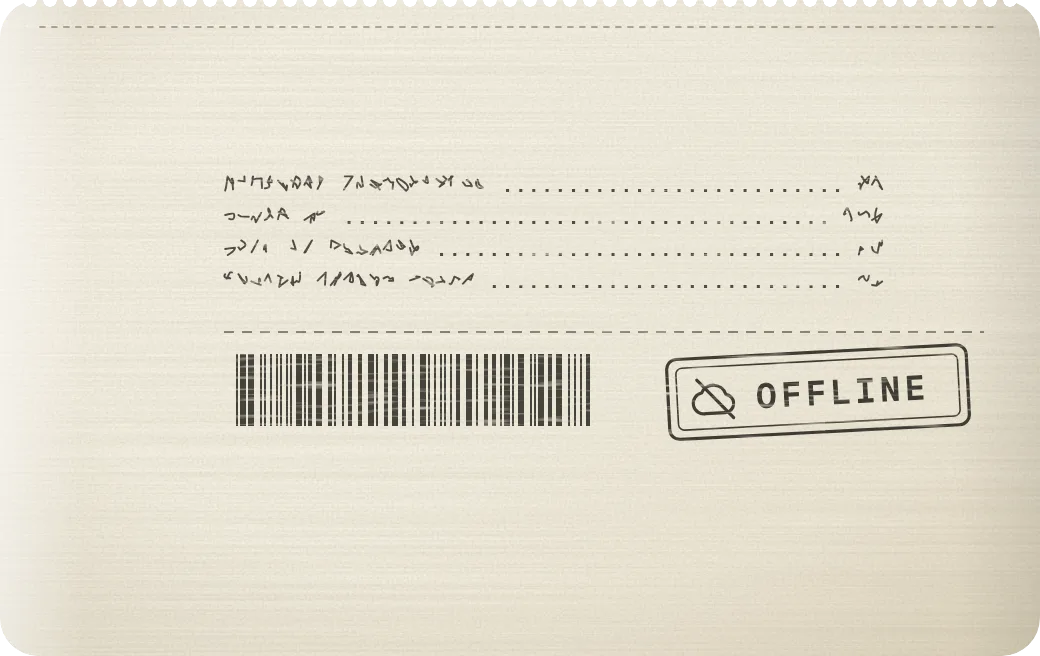
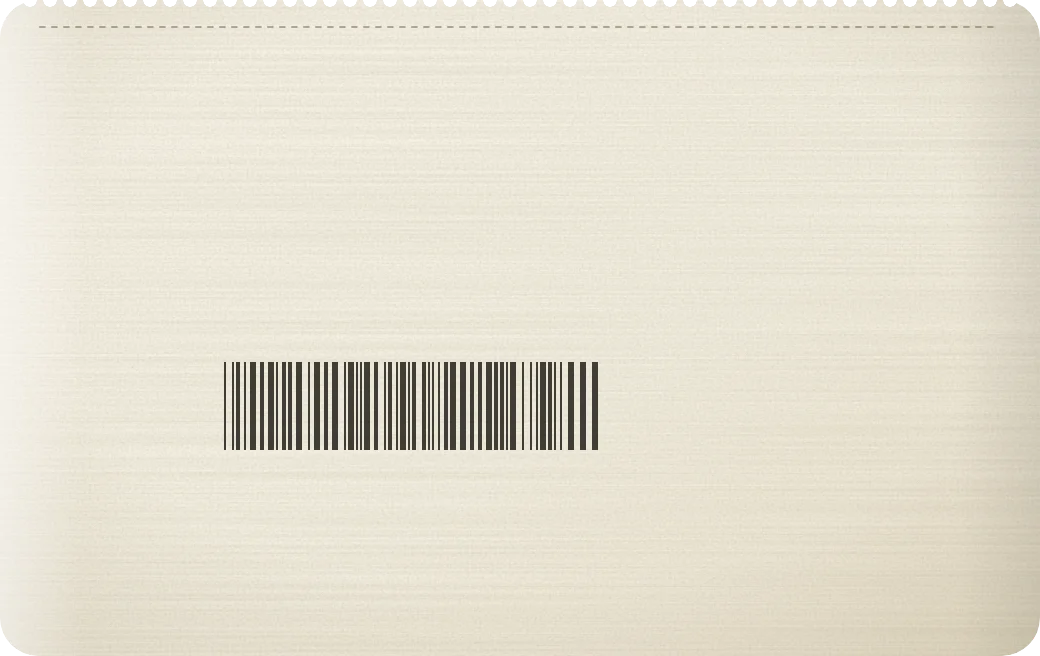
feat(home): nuevas tarjetas de Pyventa (ticket que se imprime) y Maiden OS (agente que entrega el trabajo), animadas al abrirlas (NOE-558)

diff --git a/src/home/sections/card-motion/pyventa.ts b/src/home/sections/card-motion/pyventa.ts
@@ -1,5 +1,49 @@
-import type { CardMotion } from './index';
+// Pyventa Web: the moving parts of the card (laser, item lines and prices, separator, total).
+// Generated by scripts/cards/gen/living-split.mjs from the same source as public/home/cards/pyventa.webp (the paper and barcode).
+// At rest, this overlay on that base is the approved card. Build-up is about 1.4 s.
+import { EASE, sweep, type CardMotion } from './index';
 
-// Placeholder until this card's overlay is built.
-const motion: CardMotion = { id: 'pyventa', svg: '', play: () => [] };
+const svg = "<defs><linearGradient id=\"pv-lz\" gradientUnits=\"objectBoundingBox\" x1=\"0\" y1=\"0\" x2=\"1\" y2=\"0\"><stop offset=\"0\" stop-color=\"#D2402F\" stop-opacity=\"0\"/><stop offset=\".08\" stop-color=\"#D2402F\"/><stop offset=\".92\" stop-color=\"#D2402F\"/><stop offset=\"1\" stop-color=\"#D2402F\" stop-opacity=\"0\"/></linearGradient></defs><g fill=\"#23201A\"><g data-row><path d=\"M252 82.5 H445.5\" stroke=\"#23201A\" stroke-width=\"1\" stroke-dasharray=\"1.2 3.2\" stroke-linecap=\"round\" opacity=\".4\"></path><rect x=\"112\" y=\"79.4\" width=\"132\" height=\"5.2\" rx=\"2.6\" opacity=\".78\"></rect><path d=\"M459.16 85.60L458.00 85.60L458.00 80.03L456.00 80.03L456.00 79.05L456.99 79.05Q457.42 79.05 457.68 78.93Q457.95 78.80 458.07 78.53Q458.19 78.25 458.19 77.79L458.19 77.79L459.16 77.79L459.16 85.60ZM460.98 85.60L455.62 85.60L455.62 84.51L460.98 84.51L460.98 85.60ZM467.67 85.60L462.13 85.60Q462.13 84.73 462.38 84.05Q462.63 83.37 463.28 82.77Q463.92 82.17 465.06 81.56L465.06 81.56Q465.56 81.31 465.87 81.08Q466.18 80.85 466.32 80.58Q466.46 80.32 466.46 79.95L466.46 79.95Q466.46 79.56 466.31 79.29Q466.15 79.01 465.85 78.85Q465.54 78.69 465.08 78.69L465.08 78.69Q464.33 78.69 463.90 79.09Q463.48 79.48 463.37 80.22L463.37 80.22L462.17 80.14Q462.29 78.99 463.04 78.30Q463.79 77.61 465.08 77.61L465.08 77.61Q465.91 77.61 466.49 77.90Q467.07 78.19 467.36 78.70Q467.66 79.22 467.66 79.90L467.66 79.90Q467.66 80.51 467.46 80.95Q467.27 81.39 466.80 81.76Q466.34 82.13 465.54 82.56L465.54 82.56Q464.87 82.93 464.42 83.27Q463.98 83.62 463.75 83.93Q463.53 84.25 463.50 84.51L463.50 84.51L467.67 84.51L467.67 85.60ZM472.25 85.60L470.75 85.60L470.75 84.15L472.25 84.15L472.25 85.60ZM478.08 85.78L478.08 85.78Q477.30 85.78 476.72 85.50Q476.14 85.21 475.81 84.71Q475.47 84.21 475.42 83.56L475.42 83.56L476.62 83.49Q476.69 84.09 477.08 84.40Q477.46 84.70 478.08 84.70L478.08 84.70Q478.77 84.70 479.18 84.27Q479.59 83.85 479.59 83.07L479.59 83.07Q479.59 82.56 479.40 82.19Q479.22 81.82 478.89 81.62Q478.56 81.43 478.10 81.43L478.10 81.43Q477.67 81.43 477.29 81.65Q476.91 81.86 476.76 82.23L476.76 82.23L475.54 82.21L476.04 77.79L480.34 77.79L480.34 78.88L477.04 78.88L476.73 81.57L476.49 81.41Q476.67 81.08 476.95 80.86Q477.23 80.64 477.58 80.52Q477.92 80.41 478.28 80.41L478.28 80.41Q479.04 80.41 479.60 80.75Q480.17 81.09 480.48 81.69Q480.78 82.30 480.78 83.08L480.78 83.08Q480.78 83.86 480.44 84.48Q480.10 85.09 479.49 85.43Q478.88 85.78 478.08 85.78ZM483.64 84.49L482.76 84.43L485.76 78.90L486.64 78.96L483.64 84.49ZM484.70 85.78L484.70 85.78Q483.84 85.78 483.22 85.28Q482.59 84.79 482.26 83.87Q481.93 82.96 481.93 81.71L481.93 81.71Q481.93 80.44 482.26 79.53Q482.59 78.61 483.22 78.11Q483.84 77.61 484.70 77.61L484.70 77.61Q485.57 77.61 486.19 78.11Q486.81 78.61 487.14 79.53Q487.47 80.44 487.47 81.71L487.47 81.71Q487.47 82.96 487.14 83.87Q486.81 84.79 486.19 85.28Q485.57 85.78 484.70 85.78ZM484.70 84.70L484.70 84.70Q485.20 84.70 485.54 84.34Q485.89 83.98 486.08 83.31Q486.27 82.64 486.27 81.71L486.27 81.71Q486.27 80.75 486.08 80.08Q485.89 79.41 485.54 79.05Q485.20 78.69 484.70 78.69L484.70 78.69Q484.22 78.69 483.86 79.05Q483.51 79.41 483.32 80.08Q483.13 80.75 483.13 81.71L483.13 81.71Q483.13 82.64 483.32 83.31Q483.51 83.98 483.86 84.34Q484.22 84.70 484.70 84.70Z\" opacity=\".82\"/></g><g data-row><path d=\"M216 101.5 H452.4\" stroke=\"#23201A\" stroke-width=\"1\" stroke-dasharray=\"1.2 3.2\" stroke-linecap=\"round\" opacity=\".4\"></path><rect x=\"112\" y=\"98.4\" width=\"96\" height=\"5.2\" rx=\"2.6\" opacity=\".78\"></rect><path d=\"M464.83 104.78L464.83 104.78Q463.55 104.78 462.87 104.16Q462.18 103.54 462.13 102.54L462.13 102.54L463.31 102.47Q463.37 103.14 463.79 103.42Q464.22 103.70 464.85 103.70L464.85 103.70Q465.27 103.70 465.65 103.57Q466.02 103.43 466.25 103.15Q466.47 102.86 466.47 102.38L466.47 102.38Q466.47 101.91 466.27 101.60Q466.07 101.29 465.70 101.14Q465.33 100.99 464.86 100.99L464.86 100.99L464.25 100.99L464.25 99.96L464.86 99.96Q465.23 99.96 465.54 99.85Q465.85 99.74 466.03 99.48Q466.21 99.23 466.21 98.84L466.21 98.84Q466.21 98.26 465.86 97.98Q465.52 97.69 464.88 97.69L464.88 97.69Q464.22 97.69 463.88 97.97Q463.55 98.24 463.47 98.73L463.47 98.73L462.28 98.65Q462.40 97.74 463.07 97.17Q463.73 96.61 464.89 96.61L464.89 96.61Q465.66 96.61 466.23 96.87Q466.79 97.13 467.10 97.60Q467.41 98.08 467.41 98.74L467.41 98.74Q467.41 99.46 466.95 99.91Q466.50 100.35 465.63 100.52L465.63 100.52L465.63 100.31Q466.57 100.42 467.12 100.99Q467.67 101.55 467.67 102.41L467.67 102.41Q467.67 103.16 467.31 103.69Q466.96 104.21 466.31 104.50Q465.67 104.78 464.83 104.78ZM472.25 104.60L470.75 104.60L470.75 103.15L472.25 103.15L472.25 104.60ZM477.04 103.49L476.16 103.43L479.16 97.90L480.04 97.96L477.04 103.49ZM478.10 104.78L478.10 104.78Q477.24 104.78 476.62 104.28Q475.99 103.79 475.66 102.87Q475.33 101.96 475.33 100.71L475.33 100.71Q475.33 99.44 475.66 98.53Q475.99 97.61 476.62 97.11Q477.24 96.61 478.10 96.61L478.10 96.61Q478.97 96.61 479.59 97.11Q480.21 97.61 480.54 98.53Q480.87 99.44 480.87 100.71L480.87 100.71Q480.87 101.96 480.54 102.87Q480.21 103.79 479.59 104.28Q478.97 104.78 478.10 104.78ZM478.10 103.70L478.10 103.70Q478.60 103.70 478.94 103.34Q479.29 102.98 479.48 102.31Q479.67 101.64 479.67 100.71L479.67 100.71Q479.67 99.75 479.48 99.08Q479.29 98.41 478.94 98.05Q478.60 97.69 478.10 97.69L478.10 97.69Q477.62 97.69 477.26 98.05Q476.91 98.41 476.72 99.08Q476.53 99.75 476.53 100.71L476.53 100.71Q476.53 101.64 476.72 102.31Q476.91 102.98 477.26 103.34Q477.62 103.70 478.10 103.70ZM483.64 103.49L482.76 103.43L485.76 97.90L486.64 97.96L483.64 103.49ZM484.70 104.78L484.70 104.78Q483.84 104.78 483.22 104.28Q482.59 103.79 482.26 102.87Q481.93 101.96 481.93 100.71L481.93 100.71Q481.93 99.44 482.26 98.53Q482.59 97.61 483.22 97.11Q483.84 96.61 484.70 96.61L484.70 96.61Q485.57 96.61 486.19 97.11Q486.81 97.61 487.14 98.53Q487.47 99.44 487.47 100.71L487.47 100.71Q487.47 101.96 487.14 102.87Q486.81 103.79 486.19 104.28Q485.57 104.78 484.70 104.78ZM484.70 103.70L484.70 103.70Q485.20 103.70 485.54 103.34Q485.89 102.98 486.08 102.31Q486.27 101.64 486.27 100.71L486.27 100.71Q486.27 99.75 486.08 99.08Q485.89 98.41 485.54 98.05Q485.20 97.69 484.70 97.69L484.70 97.69Q484.22 97.69 483.86 98.05Q483.51 98.41 483.32 99.08Q483.13 99.75 483.13 100.71L483.13 100.71Q483.13 101.64 483.32 102.31Q483.51 102.98 483.86 103.34Q484.22 103.70 484.70 103.70Z\" opacity=\".82\"/></g><g data-row><path d=\"M270 120.5 H445.5\" stroke=\"#23201A\" stroke-width=\"1\" stroke-dasharray=\"1.2 3.2\" stroke-linecap=\"round\" opacity=\".4\"></path><rect x=\"112\" y=\"117.4\" width=\"150\" height=\"5.2\" rx=\"2.6\" opacity=\".78\"></rect><path d=\"M460.27 123.60L459.11 123.60L459.11 121.95L455.40 121.95L455.40 120.95L458.99 115.79L460.27 115.79L460.27 120.88L461.20 120.88L461.20 121.95L460.27 121.95L460.27 123.60ZM459.11 117.33L456.53 120.88L459.11 120.88L459.11 117.33ZM464.88 123.78L464.88 123.78Q464.10 123.78 463.52 123.50Q462.94 123.21 462.61 122.71Q462.27 122.21 462.22 121.56L462.22 121.56L463.42 121.49Q463.49 122.09 463.88 122.40Q464.26 122.70 464.88 122.70L464.88 122.70Q465.57 122.70 465.98 122.27Q466.39 121.85 466.39 121.07L466.39 121.07Q466.39 120.56 466.20 120.19Q466.02 119.82 465.69 119.62Q465.36 119.43 464.90 119.43L464.90 119.43Q464.47 119.43 464.09 119.65Q463.71 119.86 463.56 120.23L463.56 120.23L462.34 120.21L462.84 115.79L467.14 115.79L467.14 116.88L463.84 116.88L463.53 119.57L463.29 119.41Q463.47 119.08 463.75 118.86Q464.03 118.64 464.38 118.52Q464.72 118.41 465.08 118.41L465.08 118.41Q465.84 118.41 466.40 118.75Q466.97 119.09 467.28 119.69Q467.58 120.30 467.58 121.08L467.58 121.08Q467.58 121.86 467.24 122.48Q466.90 123.09 466.29 123.43Q465.68 123.78 464.88 123.78ZM472.25 123.60L470.75 123.60L470.75 122.15L472.25 122.15L472.25 123.60ZM478.08 115.61L478.08 115.61Q478.98 115.61 479.61 116.02Q480.25 116.43 480.57 117.21Q480.89 117.99 480.89 119.11L480.89 119.11Q480.89 120.08 480.73 120.93Q480.56 121.77 480.20 122.41Q479.84 123.05 479.24 123.41Q478.65 123.78 477.78 123.78L477.78 123.78Q477.06 123.78 476.57 123.54Q476.08 123.30 475.77 122.87Q475.47 122.44 475.32 121.89L475.32 121.89L476.51 121.80Q476.63 122.20 476.92 122.45Q477.21 122.70 477.78 122.70L477.78 122.70Q478.38 122.70 478.80 122.36Q479.23 122.02 479.47 121.32Q479.71 120.63 479.73 119.55L479.73 119.55L480.01 119.60Q479.90 119.98 479.61 120.31Q479.31 120.64 478.87 120.84Q478.43 121.05 477.86 121.05L477.86 121.05Q477.09 121.05 476.52 120.72Q475.94 120.40 475.63 119.80Q475.31 119.20 475.31 118.41L475.31 118.41Q475.31 117.54 475.66 116.92Q476.01 116.30 476.63 115.95Q477.25 115.61 478.08 115.61ZM478.08 116.70L478.08 116.70Q477.35 116.70 476.93 117.14Q476.51 117.58 476.51 118.39L476.51 118.39Q476.51 119.12 476.91 119.56Q477.31 120.00 477.99 120.00L477.99 120.00Q478.49 120.00 478.86 119.80Q479.24 119.61 479.46 119.24Q479.67 118.88 479.67 118.39L479.67 118.39Q479.67 117.90 479.48 117.52Q479.29 117.13 478.93 116.92Q478.57 116.70 478.08 116.70ZM483.64 122.49L482.76 122.43L485.76 116.90L486.64 116.96L483.64 122.49ZM484.70 123.78L484.70 123.78Q483.84 123.78 483.22 123.28Q482.59 122.79 482.26 121.87Q481.93 120.96 481.93 119.71L481.93 119.71Q481.93 118.44 482.26 117.53Q482.59 116.61 483.22 116.11Q483.84 115.61 484.70 115.61L484.70 115.61Q485.57 115.61 486.19 116.11Q486.81 116.61 487.14 117.53Q487.47 118.44 487.47 119.71L487.47 119.71Q487.47 120.96 487.14 121.87Q486.81 122.79 486.19 123.28Q485.57 123.78 484.70 123.78ZM484.70 122.70L484.70 122.70Q485.20 122.70 485.54 122.34Q485.89 121.98 486.08 121.31Q486.27 120.64 486.27 119.71L486.27 119.71Q486.27 118.75 486.08 118.08Q485.89 117.41 485.54 117.05Q485.20 116.69 484.70 116.69L484.70 116.69Q484.22 116.69 483.86 117.05Q483.51 117.41 483.32 118.08Q483.13 118.75 483.13 119.71L483.13 119.71Q483.13 120.64 483.32 121.31Q483.51 121.98 483.86 122.34Q484.22 122.70 484.70 122.70Z\" opacity=\".82\"/></g><g data-row><path d=\"M230 139.5 H452.4\" stroke=\"#23201A\" stroke-width=\"1\" stroke-dasharray=\"1.2 3.2\" stroke-linecap=\"round\" opacity=\".4\"></path><rect x=\"112\" y=\"136.4\" width=\"110\" height=\"5.2\" rx=\"2.6\" opacity=\".78\"></rect><path d=\"M464.90 142.78L464.90 142.78Q464.10 142.78 463.46 142.51Q462.83 142.25 462.47 141.73Q462.11 141.21 462.11 140.45L462.11 140.45Q462.11 139.61 462.62 139.05Q463.13 138.49 463.99 138.30L463.99 138.30L464.01 138.52Q463.32 138.34 462.89 137.91Q462.46 137.48 462.46 136.76L462.46 136.76Q462.46 136.14 462.77 135.66Q463.09 135.17 463.64 134.89Q464.19 134.61 464.90 134.61L464.90 134.61Q465.62 134.61 466.17 134.89Q466.73 135.17 467.03 135.66Q467.34 136.14 467.34 136.76L467.34 136.76Q467.34 137.48 466.92 137.91Q466.50 138.34 465.79 138.52L465.79 138.52L465.81 138.30Q466.67 138.50 467.18 139.05Q467.69 139.61 467.69 140.45L467.69 140.45Q467.69 141.21 467.33 141.73Q466.97 142.25 466.34 142.51Q465.71 142.78 464.90 142.78ZM464.90 141.70L464.90 141.70Q465.59 141.70 466.04 141.37Q466.50 141.05 466.50 140.37L466.50 140.37Q466.50 139.73 466.09 139.35Q465.69 138.97 464.90 138.97L464.90 138.97Q464.12 138.97 463.71 139.35Q463.31 139.73 463.31 140.37L463.31 140.37Q463.31 141.05 463.76 141.37Q464.21 141.70 464.90 141.70ZM464.90 137.94L464.90 137.94Q465.46 137.94 465.80 137.65Q466.14 137.36 466.14 136.79L466.14 136.79Q466.14 136.29 465.81 135.99Q465.47 135.69 464.90 135.69L464.90 135.69Q464.33 135.69 463.99 135.99Q463.66 136.29 463.66 136.79L463.66 136.79Q463.66 137.36 464.00 137.65Q464.34 137.94 464.90 137.94ZM472.25 142.60L470.75 142.60L470.75 141.15L472.25 141.15L472.25 142.60ZM480.87 142.60L475.33 142.60Q475.33 141.73 475.58 141.05Q475.83 140.37 476.48 139.77Q477.12 139.17 478.27 138.56L478.27 138.56Q478.76 138.31 479.07 138.08Q479.38 137.85 479.52 137.58Q479.66 137.32 479.66 136.95L479.66 136.95Q479.66 136.56 479.51 136.29Q479.35 136.01 479.05 135.85Q478.74 135.69 478.28 135.69L478.28 135.69Q477.53 135.69 477.10 136.09Q476.68 136.48 476.57 137.22L476.57 137.22L475.37 137.14Q475.49 135.99 476.24 135.30Q476.99 134.61 478.28 134.61L478.28 134.61Q479.11 134.61 479.69 134.90Q480.27 135.19 480.56 135.70Q480.86 136.22 480.86 136.90L480.86 136.90Q480.86 137.51 480.66 137.95Q480.47 138.39 480.00 138.76Q479.54 139.13 478.74 139.56L478.74 139.56Q478.07 139.93 477.62 140.27Q477.18 140.62 476.95 140.93Q476.73 141.25 476.70 141.51L476.70 141.51L480.87 141.51L480.87 142.60ZM484.68 142.78L484.68 142.78Q483.90 142.78 483.32 142.50Q482.74 142.22 482.41 141.71Q482.07 141.21 482.02 140.56L482.02 140.56L483.22 140.49Q483.29 141.09 483.68 141.40Q484.06 141.70 484.68 141.70L484.68 141.70Q485.37 141.70 485.78 141.27Q486.19 140.85 486.19 140.07L486.19 140.07Q486.19 139.56 486.00 139.19Q485.82 138.82 485.49 138.62Q485.16 138.43 484.70 138.43L484.70 138.43Q484.27 138.43 483.89 138.65Q483.51 138.86 483.36 139.23L483.36 139.23L482.14 139.21L482.64 134.79L486.94 134.79L486.94 135.88L483.64 135.88L483.33 138.57L483.09 138.41Q483.27 138.08 483.55 137.86Q483.83 137.64 484.18 137.52Q484.52 137.41 484.88 137.41L484.88 137.41Q485.64 137.41 486.20 137.75Q486.77 138.09 487.08 138.69Q487.38 139.30 487.38 140.08L487.38 140.08Q487.38 140.86 487.04 141.48Q486.70 142.09 486.09 142.44Q485.48 142.78 484.68 142.78Z\" opacity=\".82\"/></g><g data-sep><path d=\"M112 153 H488\" stroke=\"#23201A\" stroke-width=\"1\" stroke-dasharray=\"5 4\" opacity=\".5\" fill=\"none\"></path></g><g data-tot><rect data-tb x=\"112\" y=\"161.5\" width=\"74\" height=\"8.5\" rx=\"4.25\" opacity=\".92\"></rect><path data-tt d=\"M450.23 170.62L450.23 170.62Q449.02 170.62 448.20 170.10Q447.37 169.57 446.95 168.56Q446.53 167.54 446.53 166.10L446.53 166.10Q446.53 164.87 446.76 163.81Q446.98 162.74 447.46 161.94Q447.95 161.13 448.72 160.68Q449.49 160.24 450.59 160.24L450.59 160.24Q451.57 160.24 452.22 160.56Q452.87 160.88 453.26 161.44Q453.64 162 453.83 162.73L453.83 162.73L451.81 162.87Q451.71 162.49 451.44 162.25Q451.17 162 450.59 162L450.59 162Q449.98 162 449.52 162.36Q449.07 162.71 448.81 163.50Q448.55 164.28 448.53 165.56L448.53 165.56L447.92 165.50Q448.07 165.05 448.42 164.63Q448.76 164.21 449.32 163.95Q449.88 163.69 450.63 163.69L450.63 163.69Q451.63 163.69 452.35 164.11Q453.07 164.52 453.47 165.27Q453.87 166.02 453.87 167.03L453.87 167.03Q453.87 168.13 453.41 168.94Q452.96 169.74 452.15 170.18Q451.33 170.62 450.23 170.62ZM450.19 168.83L450.19 168.83Q450.97 168.83 451.40 168.38Q451.82 167.94 451.82 167.10L451.82 167.10Q451.82 166.31 451.43 165.85Q451.04 165.39 450.27 165.39L450.27 165.39Q449.75 165.39 449.37 165.61Q448.98 165.82 448.78 166.21Q448.58 166.59 448.58 167.11L448.58 167.11Q448.58 167.59 448.76 167.98Q448.95 168.37 449.32 168.60Q449.68 168.83 450.19 168.83ZM458.57 160.24L458.57 160.24Q459.79 160.24 460.61 160.76Q461.43 161.29 461.85 162.29Q462.27 163.30 462.27 164.76L462.27 164.76Q462.27 165.99 462.04 167.05Q461.82 168.12 461.34 168.92Q460.85 169.73 460.08 170.18Q459.31 170.62 458.21 170.62L458.21 170.62Q457.23 170.62 456.58 170.30Q455.93 169.98 455.54 169.42Q455.16 168.86 454.97 168.13L454.97 168.13L456.99 167.99Q457.10 168.36 457.38 168.61Q457.65 168.86 458.21 168.86L458.21 168.86Q458.82 168.86 459.29 168.50Q459.75 168.15 460 167.36Q460.25 166.58 460.27 165.30L460.27 165.30L460.88 165.36Q460.74 165.81 460.39 166.23Q460.04 166.65 459.48 166.91Q458.92 167.17 458.17 167.17L458.17 167.17Q457.19 167.17 456.46 166.75Q455.73 166.34 455.33 165.58Q454.93 164.83 454.93 163.83L454.93 163.83Q454.93 162.73 455.39 161.92Q455.84 161.12 456.66 160.68Q457.48 160.24 458.57 160.24ZM458.61 162.03L458.61 162.03Q457.83 162.03 457.40 162.48Q456.98 162.92 456.98 163.76L456.98 163.76Q456.98 164.53 457.38 165.00Q457.77 165.47 458.53 165.47L458.53 165.47Q459.05 165.47 459.43 165.25Q459.82 165.04 460.02 164.65Q460.22 164.27 460.22 163.75L460.22 163.75Q460.22 163.27 460.03 162.88Q459.85 162.49 459.49 162.26Q459.13 162.03 458.61 162.03ZM468.11 170.40L465.89 170.40L465.89 168.29L468.11 168.29L468.11 170.40ZM475.43 170.62L475.43 170.62Q474.22 170.62 473.40 170.10Q472.57 169.57 472.15 168.56Q471.73 167.54 471.73 166.10L471.73 166.10Q471.73 164.87 471.96 163.81Q472.18 162.74 472.66 161.94Q473.15 161.13 473.92 160.68Q474.69 160.24 475.79 160.24L475.79 160.24Q476.77 160.24 477.42 160.56Q478.07 160.88 478.46 161.44Q478.84 162 479.03 162.73L479.03 162.73L477.01 162.87Q476.91 162.49 476.64 162.25Q476.37 162 475.79 162L475.79 162Q475.18 162 474.72 162.36Q474.27 162.71 474.01 163.50Q473.75 164.28 473.73 165.56L473.73 165.56L473.12 165.50Q473.27 165.05 473.61 164.63Q473.96 164.21 474.52 163.95Q475.08 163.69 475.83 163.69L475.83 163.69Q476.83 163.69 477.55 164.11Q478.27 164.52 478.67 165.27Q479.07 166.02 479.07 167.03L479.07 167.03Q479.07 168.13 478.61 168.94Q478.16 169.74 477.35 170.18Q476.53 170.62 475.43 170.62ZM475.39 168.83L475.39 168.83Q476.17 168.83 476.60 168.38Q477.02 167.94 477.02 167.10L477.02 167.10Q477.02 166.31 476.63 165.85Q476.24 165.39 475.47 165.39L475.47 165.39Q474.95 165.39 474.57 165.61Q474.18 165.82 473.98 166.21Q473.78 166.59 473.78 167.11L473.78 167.11Q473.78 167.59 473.96 167.98Q474.15 168.37 474.52 168.60Q474.88 168.83 475.39 168.83ZM483.79 170.62L483.79 170.62Q482.74 170.62 481.97 170.25Q481.21 169.87 480.78 169.22Q480.34 168.57 480.27 167.74L480.27 167.74L482.32 167.63Q482.41 168.24 482.78 168.55Q483.14 168.86 483.79 168.86L483.79 168.86Q484.47 168.86 484.88 168.43Q485.28 167.99 485.28 167.14L485.28 167.14Q485.28 166.58 485.09 166.19Q484.91 165.79 484.58 165.59Q484.25 165.39 483.80 165.39L483.80 165.39Q483.34 165.39 482.97 165.63Q482.61 165.88 482.47 166.26L482.47 166.26L480.41 166.16L481.00 160.46L486.87 160.46L486.87 162.25L482.64 162.25L482.29 165.23L481.87 165.02Q482.11 164.63 482.45 164.35Q482.79 164.07 483.22 163.93Q483.65 163.78 484.14 163.78L484.14 163.78Q485.12 163.78 485.84 164.21Q486.56 164.65 486.94 165.41Q487.33 166.17 487.33 167.15L487.33 167.15Q487.33 168.17 486.89 168.96Q486.45 169.74 485.65 170.18Q484.86 170.62 483.79 170.62Z\" opacity=\".92\"/></g></g><g data-laser><rect x=\"100.5\" y=\"197\" width=\"213\" height=\"12\" rx=\"6\" fill=\"#D2402F\" opacity=\"0.05\"/><rect x=\"102\" y=\"198.5\" width=\"210\" height=\"9\" rx=\"4.5\" fill=\"#D2402F\" opacity=\"0.07\"/><rect x=\"103.25\" y=\"199.75\" width=\"207.5\" height=\"6.5\" rx=\"3.25\" fill=\"#D2402F\" opacity=\"0.09\"/><rect x=\"104.3\" y=\"200.8\" width=\"205.4\" height=\"4.4\" rx=\"2.2\" fill=\"#D2402F\" opacity=\"0.12\"/><rect x=\"104\" y=\"202.1\" width=\"206\" height=\"1.8\" rx=\".9\" fill=\"url(#pv-lz)\"></rect></g>";
+
+const opt = (at: number, ms: number): KeyframeAnimationOptions => ({ duration: ms, delay: at, easing: EASE, fill: 'backwards' });
+
+// Fades in from slightly lower and ends on the element's own opacity.
+function rise(el: Element, at: number, ms: number): Animation {
+  return el.animate([{ opacity: 0, transform: 'translateY(2px)' }, { transform: 'translateY(0)' }], opt(at, ms));
+}
+
+const motion: CardMotion = {
+  id: 'pyventa',
+  svg,
+  play(root, delay) {
+    if (window.matchMedia('(prefers-reduced-motion: reduce)').matches) return [];
+    const out: Animation[] = [];
+    const one = <T extends Element>(sel: string) => root.querySelector(sel) as unknown as T;
+    // The red laser comes in at the top of the barcode, scans down once and settles on its resting line.
+    out.push(one<SVGGElement>('[data-laser]').animate(
+      [{ transform: 'translateY(-22px)', opacity: 0 }, { transform: 'translateY(-14px)', opacity: 1, offset: 0.2 }, { transform: 'translateY(20px)', opacity: 1, offset: 0.62 }, { transform: 'translateY(0)', opacity: 1 }],
+      { duration: 700, delay, easing: 'ease-in-out', fill: 'backwards' },
+    ));
+    // Each item prints top to bottom: the bar sweeps left to right, then the leader and price fade in.
+    root.querySelectorAll<SVGGElement>('[data-row]').forEach((row, i) => {
+      const at = delay + 300 + i * 130;
+      out.push(sweep(row.querySelector('rect')!, at, 260));
+      out.push(rise(row.querySelector('path[stroke-dasharray]')!, at + 180, 200));
+      out.push(rise(row.querySelector('path:not([stroke-dasharray])')!, at + 200, 200));
+    });
+    // The dashed separator draws left to right.
+    const sep = one<SVGGElement>('[data-sep]').style;
+    sep.transformBox = 'view-box';
+    sep.transformOrigin = '112px 153px';
+    out.push(one<SVGGElement>('[data-sep]').animate([{ transform: 'scaleX(0)' }, { transform: 'scaleX(1)' }], opt(delay + 960, 260)));
+    out.push(sweep(one('[data-tb]'), delay + 1060, 260));
+    // The total lands last.
+    const tt = one<SVGPathElement>('[data-tt]');
+    tt.style.transformBox = 'view-box';
+    tt.style.transformOrigin = '488px 166px';
+    out.push(tt.animate([{ opacity: 0, transform: 'scale(0.9)' }, { transform: 'scale(1)' }], opt(delay + 1200, 220)));
+    return out;
+  },
+};
+
 export default motion;

diff --git a/src/home/sections/card-motion/maiden.ts b/src/home/sections/card-motion/maiden.ts
@@ -1,5 +1,47 @@
-import type { CardMotion } from './index';
+// Maiden OS: the moving parts of the card (request bubble, agent dot, reply bubble, table, page, waveform, check).
+// Generated by scripts/cards/gen/living-split.mjs from the same source as public/home/cards/maiden.webp (the obsidian background).
+// At rest, this overlay on that base is the approved card. Build-up is about 1.4 s.
+import { EASE, type CardMotion } from './index';
 
-// Placeholder until this card's overlay is built.
-const motion: CardMotion = { id: 'maiden-os', svg: '', play: () => [] };
+const svg = "<defs><radialGradient id=\"mn-aura\"><stop offset=\"0\" stop-color=\"#D6F35C\" stop-opacity=\".55\"></stop><stop offset=\".4\" stop-color=\"#D6F35C\" stop-opacity=\".16\"></stop><stop offset=\"1\" stop-color=\"#D6F35C\" stop-opacity=\"0\"></stop></radialGradient><radialGradient id=\"mn-repl\" cx=\".85\" cy=\".9\" r=\"1\"><stop offset=\"0\" stop-color=\"#D6F35C\" stop-opacity=\".10\"></stop><stop offset=\"1\" stop-color=\"#D6F35C\" stop-opacity=\"0.03\"></stop></radialGradient></defs><g data-req><path d=\"M118 70 H236 a14 14 0 0 1 14 14 V92 a14 14 0 0 1 -14 14 H128 L110 118 L114 104 a14 14 0 0 1 -10 -12 V84 a14 14 0 0 1 14 -14 Z\" fill=\"rgba(244,238,228,.09)\" stroke=\"rgba(244,238,228,.18)\" stroke-width=\"1\"></path>\n<rect x=\"120\" y=\"82\" width=\"104\" height=\"5\" rx=\"2.5\" fill=\"rgba(244,238,228,.55)\" opacity=\"1\"></rect><rect x=\"120\" y=\"93\" width=\"64\" height=\"5\" rx=\"2.5\" fill=\"rgba(244,238,228,.35)\" opacity=\"1\"></rect></g><g data-agent><circle cx=\"164\" cy=\"204\" r=\"26\" fill=\"url(#mn-aura)\"></circle><circle cx=\"164\" cy=\"204\" r=\"12\" fill=\"none\" stroke=\"#D6F35C\" stroke-opacity=\".35\" stroke-width=\"1\"></circle><circle cx=\"164\" cy=\"204\" r=\"5.4\" fill=\"#D6F35C\"></circle><circle cx=\"162.4\" cy=\"202.4\" r=\"1.8\" fill=\"#fff\" opacity=\".7\"></circle></g><g data-reply><path d=\"M222 126 H474 a16 16 0 0 1 16 16 V208 a16 16 0 0 1 -16 16 H222 a16 16 0 0 1 -16 -16 V218 L186 214 L206 200 V142 a16 16 0 0 1 16 -16 Z\" fill=\"url(#mn-repl)\" stroke=\"#D6F35C\" stroke-opacity=\".38\" stroke-width=\"1.1\"></path></g><g transform=\"translate(0 3)\" data-table><g data-cell><rect x=\"218\" y=\"146\" width=\"27\" height=\"17\" rx=\"4\" fill=\"rgba(214,243,92,.14)\"></rect><rect x=\"223\" y=\"152.5\" width=\"16\" height=\"4\" rx=\"2\" fill=\"#D6F35C\" opacity=\"1\"></rect></g><g data-cell><rect x=\"249\" y=\"146\" width=\"27\" height=\"17\" rx=\"4\" fill=\"rgba(214,243,92,.14)\"></rect><rect x=\"254\" y=\"152.5\" width=\"12\" height=\"4\" rx=\"2\" fill=\"rgba(244,238,228,.5)\" opacity=\"0.8\"></rect></g><g data-cell><rect x=\"280\" y=\"146\" width=\"27\" height=\"17\" rx=\"4\" fill=\"rgba(214,243,92,.14)\"></rect><rect x=\"285\" y=\"152.5\" width=\"19\" height=\"4\" rx=\"2\" fill=\"rgba(244,238,228,.5)\" opacity=\"0.8\"></rect></g><g data-cell><rect x=\"218\" y=\"167\" width=\"27\" height=\"17\" rx=\"4\" fill=\"rgba(244,238,228,.07)\"></rect><rect x=\"223\" y=\"173.5\" width=\"12\" height=\"4\" rx=\"2\" fill=\"rgba(244,238,228,.5)\" opacity=\"0.8\"></rect></g><g data-cell><rect x=\"249\" y=\"167\" width=\"27\" height=\"17\" rx=\"4\" fill=\"rgba(244,238,228,.07)\"></rect></g><g data-cell><rect x=\"280\" y=\"167\" width=\"27\" height=\"17\" rx=\"4\" fill=\"rgba(244,238,228,.07)\"></rect><rect x=\"285\" y=\"173.5\" width=\"16\" height=\"4\" rx=\"2\" fill=\"#D6F35C\" opacity=\"1\"></rect></g><g data-cell><rect x=\"218\" y=\"188\" width=\"27\" height=\"17\" rx=\"4\" fill=\"rgba(244,238,228,.07)\"></rect></g><g data-cell><rect x=\"249\" y=\"188\" width=\"27\" height=\"17\" rx=\"4\" fill=\"rgba(244,238,228,.07)\"></rect><rect x=\"254\" y=\"194.5\" width=\"16\" height=\"4\" rx=\"2\" fill=\"rgba(244,238,228,.5)\" opacity=\"0.8\"></rect></g><g data-cell><rect x=\"280\" y=\"188\" width=\"27\" height=\"17\" rx=\"4\" fill=\"rgba(244,238,228,.07)\"></rect><rect x=\"285\" y=\"194.5\" width=\"12\" height=\"4\" rx=\"2\" fill=\"rgba(244,238,228,.5)\" opacity=\"0.8\"></rect></g></g><g transform=\"translate(0 3)\" data-page><rect x=\"330\" y=\"146\" width=\"28\" height=\"5\" rx=\"2.5\" fill=\"#D6F35C\" opacity=\"0.95\"></rect><rect x=\"330\" y=\"160\" width=\"62\" height=\"3.6\" rx=\"1.8\" fill=\"rgba(244,238,228,.5)\" opacity=\"0.75\"></rect><rect x=\"330\" y=\"170\" width=\"50\" height=\"3.6\" rx=\"1.8\" fill=\"rgba(244,238,228,.5)\" opacity=\"0.75\"></rect><rect x=\"330\" y=\"180\" width=\"66\" height=\"3.6\" rx=\"1.8\" fill=\"rgba(244,238,228,.5)\" opacity=\"0.75\"></rect><rect x=\"330\" y=\"190\" width=\"44\" height=\"3.6\" rx=\"1.8\" fill=\"rgba(244,238,228,.5)\" opacity=\"0.75\"></rect><rect x=\"330\" y=\"200\" width=\"58\" height=\"3.6\" rx=\"1.8\" fill=\"rgba(244,238,228,.5)\" opacity=\"0.75\"></rect></g><g transform=\"translate(0 3)\" data-wave><rect x=\"410\" y=\"170.0\" width=\"3.6\" height=\"8\" rx=\"1.8\" fill=\"#D6F35C\" opacity=\"0.64\"></rect><rect x=\"416.5\" y=\"166.0\" width=\"3.6\" height=\"16\" rx=\"1.8\" fill=\"#D6F35C\" opacity=\"0.73\"></rect><rect x=\"423\" y=\"161.0\" width=\"3.6\" height=\"26\" rx=\"1.8\" fill=\"#D6F35C\" opacity=\"0.84\"></rect><rect x=\"429.5\" y=\"156.0\" width=\"3.6\" height=\"36\" rx=\"1.8\" fill=\"#D6F35C\" opacity=\"0.96\"></rect><rect x=\"436\" y=\"163.0\" width=\"3.6\" height=\"22\" rx=\"1.8\" fill=\"#D6F35C\" opacity=\"0.80\"></rect><rect x=\"442.5\" y=\"154.0\" width=\"3.6\" height=\"40\" rx=\"1.8\" fill=\"#D6F35C\" opacity=\"1.00\"></rect><rect x=\"449\" y=\"160.0\" width=\"3.6\" height=\"28\" rx=\"1.8\" fill=\"#D6F35C\" opacity=\"0.86\"></rect><rect x=\"455.5\" y=\"167.0\" width=\"3.6\" height=\"14\" rx=\"1.8\" fill=\"#D6F35C\" opacity=\"0.71\"></rect><rect x=\"462\" y=\"162.0\" width=\"3.6\" height=\"24\" rx=\"1.8\" fill=\"#D6F35C\" opacity=\"0.82\"></rect><rect x=\"468.5\" y=\"157.0\" width=\"3.6\" height=\"34\" rx=\"1.8\" fill=\"#D6F35C\" opacity=\"0.93\"></rect><rect x=\"475\" y=\"165.0\" width=\"3.6\" height=\"18\" rx=\"1.8\" fill=\"#D6F35C\" opacity=\"0.75\"></rect><rect x=\"481.5\" y=\"169.0\" width=\"3.6\" height=\"10\" rx=\"1.8\" fill=\"#D6F35C\" opacity=\"0.66\"></rect></g><g data-check><circle cx=\"476\" cy=\"126\" r=\"16\" fill=\"#D6F35C\" opacity=\"0.05\"/><circle cx=\"476\" cy=\"126\" r=\"14.5\" fill=\"#D6F35C\" opacity=\"0.07\"/><circle cx=\"476\" cy=\"126\" r=\"13\" fill=\"#D6F35C\" opacity=\"0.09\"/><circle cx=\"476\" cy=\"126\" r=\"10.5\" fill=\"#D6F35C\"></circle><path d=\"M471 126.4 L474.6 130 L481.4 122\" fill=\"none\" stroke=\"#1C1B19\" stroke-width=\"2.2\" stroke-linecap=\"round\" stroke-linejoin=\"round\"></path></g>";
+
+const opt = (at: number, ms: number): KeyframeAnimationOptions => ({ duration: ms, delay: at, easing: EASE, fill: 'backwards' });
+
+// Scales around a point in card space (the transform origin lives on the element, so only transform and opacity move).
+function from(el: Element, origin: string, frames: Keyframe[], at: number, ms: number, easing?: string): Animation {
+  const s = (el as SVGElement).style;
+  s.transformBox = 'view-box';
+  s.transformOrigin = origin;
+  return el.animate(frames, { ...opt(at, ms), ...(easing ? { easing } : {}) });
+}
+function fill(el: Element, origin: string, frames: Keyframe[], at: number, ms: number): Animation {
+  const s = (el as SVGElement).style;
+  s.transformBox = 'fill-box';
+  s.transformOrigin = origin;
+  return el.animate(frames, opt(at, ms));
+}
+
+const motion: CardMotion = {
+  id: 'maiden-os',
+  svg,
+  play(root, delay) {
+    if (window.matchMedia('(prefers-reduced-motion: reduce)').matches) return [];
+    const out: Animation[] = [];
+    const one = (sel: string) => root.querySelector(sel) as SVGElement;
+    const all = (sel: string) => [...root.querySelectorAll<SVGElement>(sel)];
+    // The request arrives from the left, tail included.
+    out.push(one('[data-req]').animate([{ opacity: 0, transform: 'translateX(-8px)' }, { opacity: 1, transform: 'translateX(0)' }], opt(delay, 280)));
+    // The agent dot pulses once, glow with it.
+    out.push(from(one('[data-agent]'), '164px 204px', [{ transform: 'scale(1)' }, { transform: 'scale(1.25)', offset: 0.4 }, { transform: 'scale(1)' }], delay + 260, 420, 'ease-in-out'));
+    // The reply opens from its tail corner.
+    out.push(from(one('[data-reply]'), '186px 214px', [{ opacity: 0, transform: 'scale(0.9)' }, { opacity: 1, transform: 'scale(1)' }], delay + 560, 260));
+    // Then its contents build: table cells, page lines, waveform, and the check last.
+    all('[data-cell]').forEach((c, i) => out.push(fill(c, '50% 50%', [{ opacity: 0, transform: 'scale(0.9)' }, { opacity: 1, transform: 'scale(1)' }], delay + 760 + i * 30, 200)));
+    all('[data-page] > rect').forEach((r, i) => out.push(fill(r, '0% 50%', [{ transform: 'scaleX(0)' }, { transform: 'scaleX(1)' }], delay + 820 + i * 45, 220)));
+    all('[data-wave] > rect').forEach((r, i) => out.push(fill(r, '50% 50%', [{ opacity: 0, transform: 'scaleY(0.2)' }, { transform: 'scaleY(1)' }], delay + 880 + i * 22, 220)));
+    out.push(from(one('[data-check]'), '476px 126px', [{ opacity: 0, transform: 'scale(0.6)' }, { opacity: 1, transform: 'scale(1)' }], delay + 1160, 240));
+    return out;
+  },
+};
+
 export default motion;
